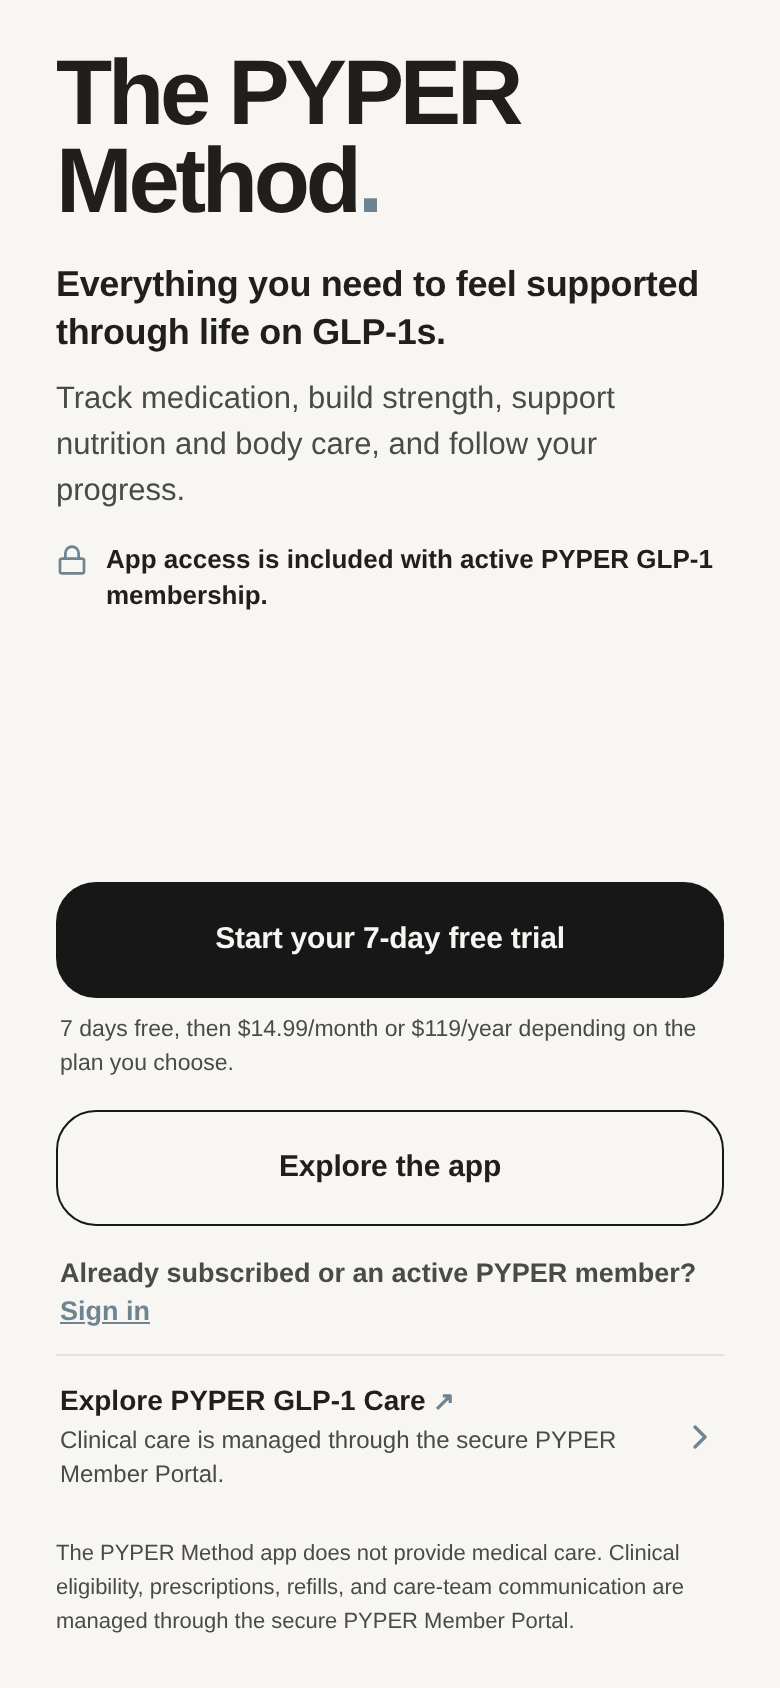
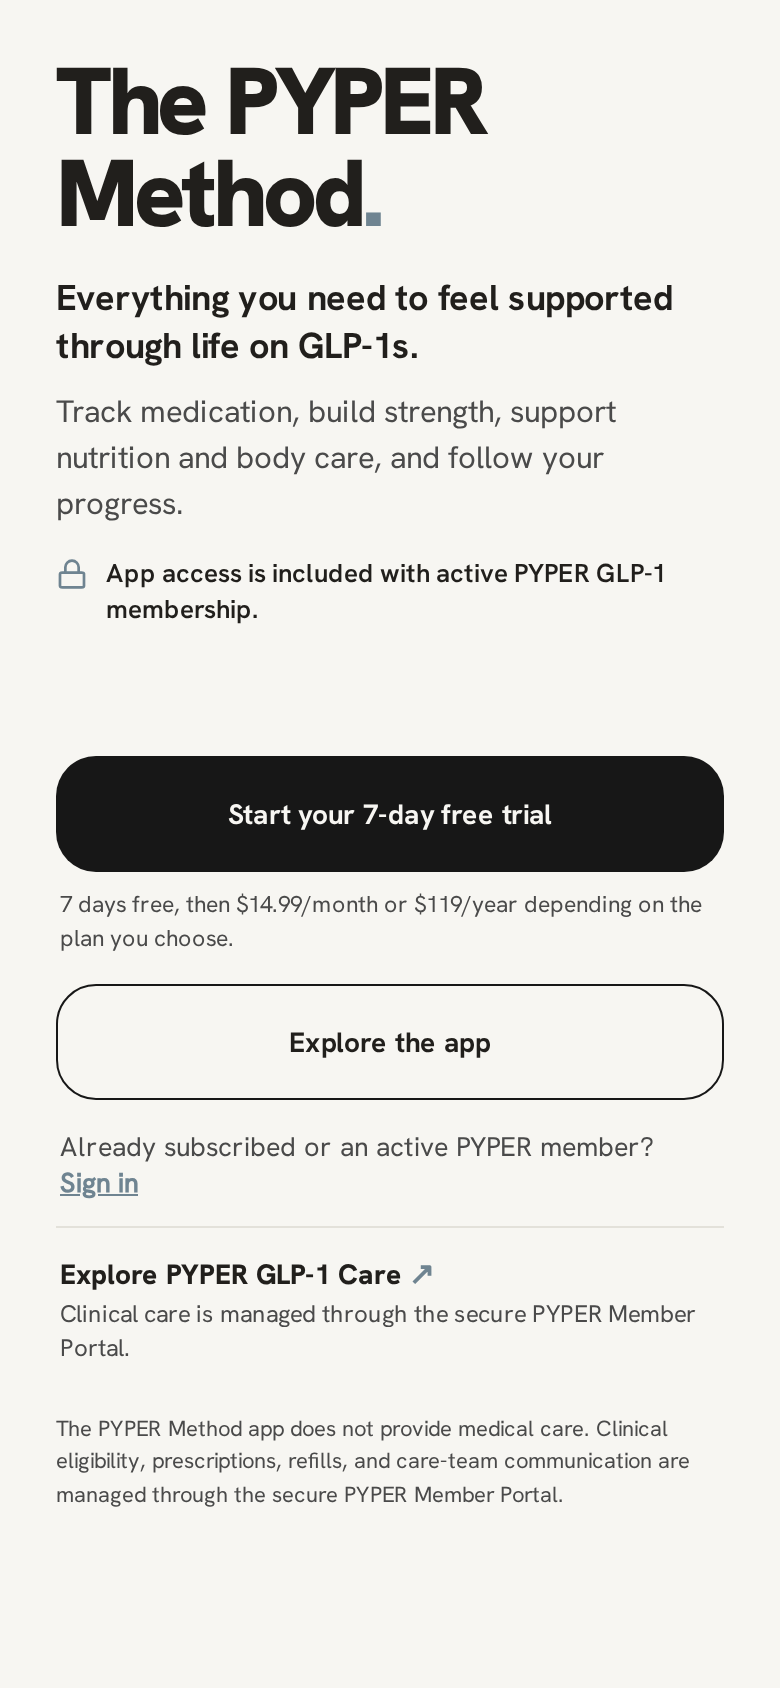
docs(mobile): replace verification screenshots and record comparison
Replaces the rejected screenshot set with 22 fresh captures covering every
Phase 2A screen and state: Welcome at both viewports, Annual and Monthly plan
selection, purchase confirmation with and without an account, Create Account
and Sign In in both pending and non-pending states, all five preview tabs,
trialing Home and Profile, expired read-only Profile, the validation state, a
keyboard-open form, and narrow-viewport sweeps.

Records the loaded font assets, the deliberate divergences from the prototype
(the removed care-row chevron and the capped Welcome spacer), and confirms that
"Clinical care is managed through the secure PYPER Member Portal." is present
in the approved Welcome and therefore retained.

Verification: tsc, eslint, expo-doctor 20/20, web export 17 routes, and the
93-check flow suite all pass after the visual correction.

diff --git a/apps/mobile/docs/phase-2a-source-of-truth.md b/apps/mobile/docs/phase-2a-source-of-truth.md
@@ -122,3 +122,41 @@ only.
 Row Level Security must be enabled on every health table when the database is
 connected. No health data may be passed to affiliate links, partner links or
 analytics.
+
+## Typography assets
+
+| Prototype variable | Family | Package | Loaded |
+|---|---|---|---|
+| `--font-display` / `--font-ui` | Hanken Grotesk | `@expo-google-fonts/hanken-grotesk` | 400, 500, 600, 700, 800, 900 |
+| `--font-mono` | JetBrains Mono | `@expo-google-fonts/jetbrains-mono` | 400, 500, 700 |
+| `--font-accent` | Fraunces | — | **Not loaded** |
+
+Fraunces is deliberately absent: it appears only in the greeting, chapter
+subtitles and legal bullets, none of which are migrated in Phase 2A. It must be
+added when those screens arrive.
+
+Fonts load in `src/app/_layout.tsx` via `expo-font`, behind a splash-screen
+hold, so the app never renders a frame in a system fallback face. React Native
+does not synthesise weights for custom families — `src/theme/typography.ts`
+maps each weight to its own family name.
+
+## Visual fidelity correction
+
+The first Phase 2A implementation was functionally correct but visually
+rejected: it rendered in system fallback fonts at inflated sizes. The
+correction transcribed the prototype's CSS into `src/theme/tokens.ts`, with
+every entry naming the rule it came from, and rebuilt the shared primitives
+against it. Screens were not redesigned and no logic changed.
+
+Two deliberate divergences from the prototype are on record:
+
+1. **Welcome care row.** The prototype carries both an inline `↗` and a
+   trailing `›` chevron (`.exChev`, line 2651). The chevron was removed on
+   approver instruction so there is one external-link indicator.
+2. **Welcome spacer.** `.welcomeSpacer` is unbounded (`flex: 1 1 auto`). It is
+   capped at 64pt natively so a tall viewport cannot open a blank void between
+   the editorial top and the anchored actions.
+
+The sentence "Clinical care is managed through the secure PYPER Member Portal."
+was verified as present in the approved Welcome (`.exCopy`, line 2649) and is
+retained.
